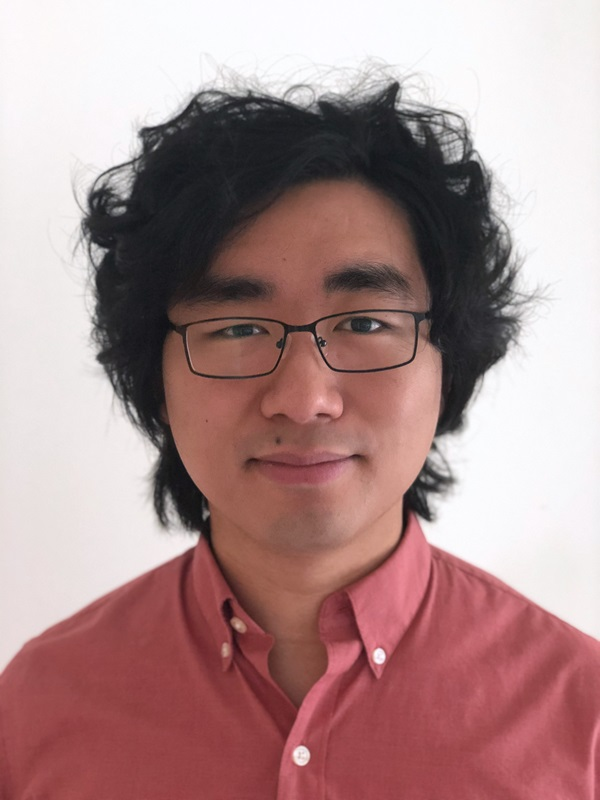
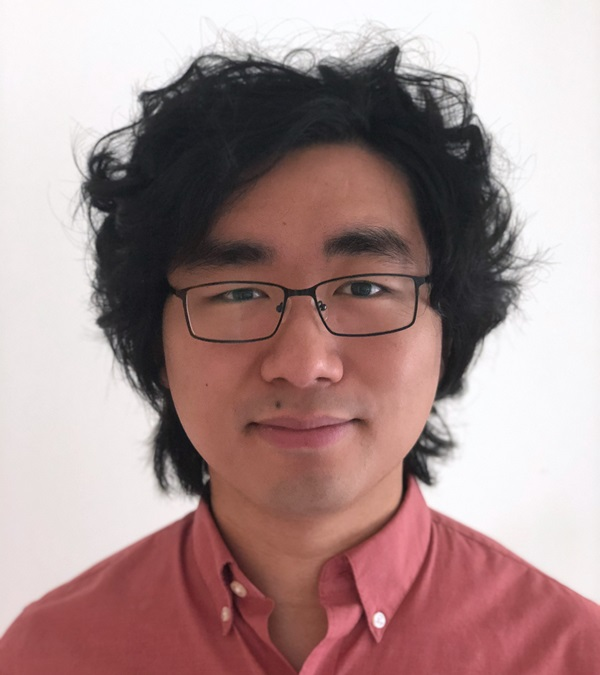
Fixed image files.

diff --git a/index.html b/index.html
@@ -19,7 +19,7 @@
 		<hr>
 		
 		<div id="profilediv">
-			<img id="profilepic" src="image/DLi.png" width="200" height="225">
+			<img id="profilepic" src="image/DLi.jpg" width="200" height="225">
 			
 			<div id="profiledesc">
 				<p>Postdoctoral Research Fellow, University of Pennsylvania
